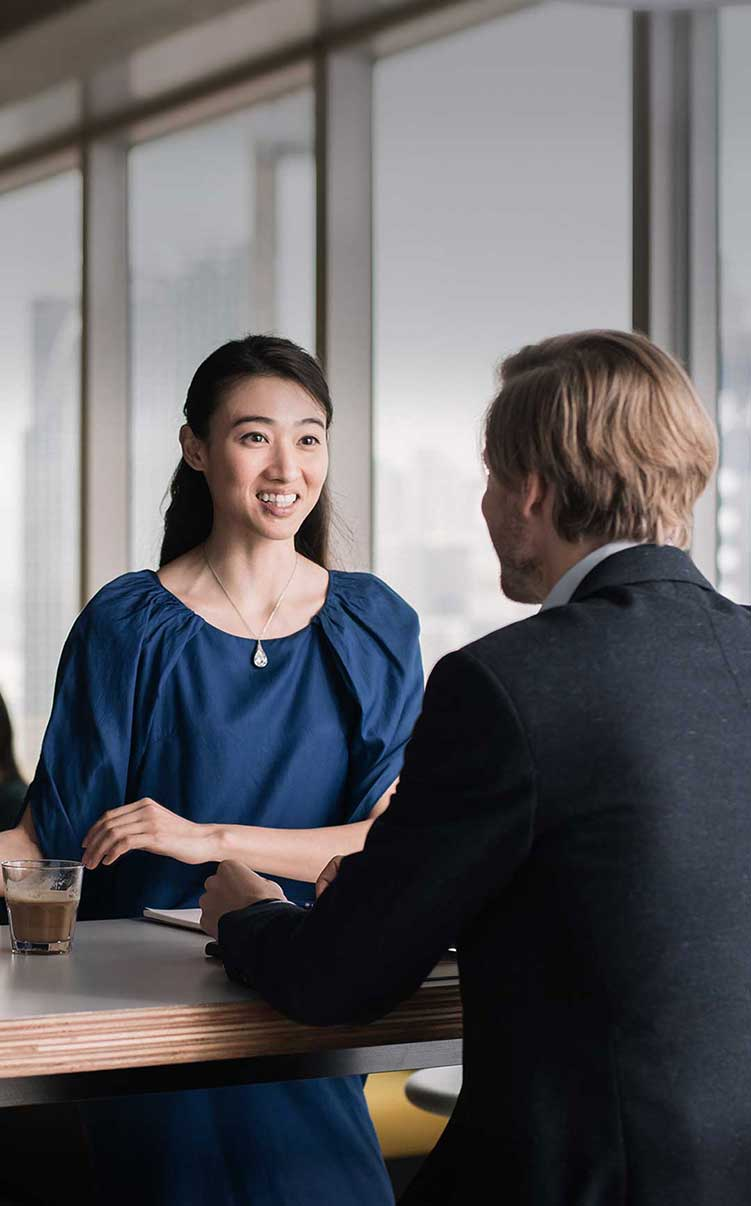
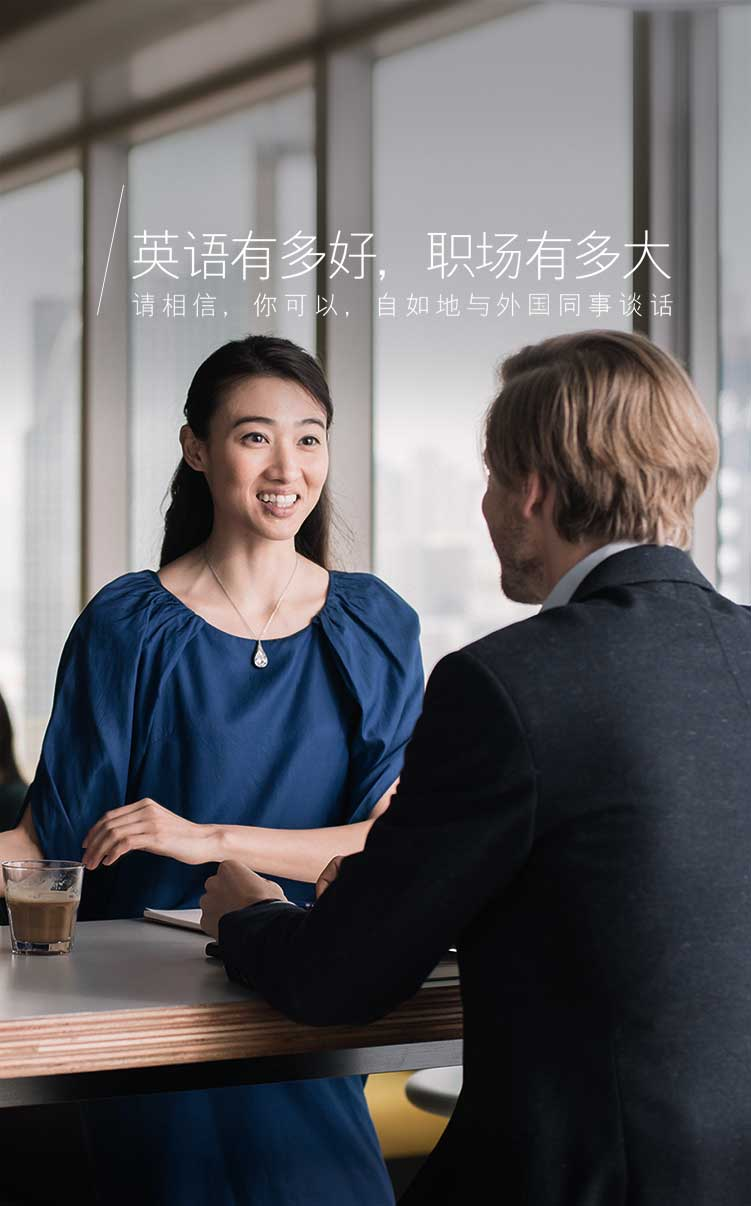
fix: change slide-4 image

diff --git a/app/main.scss b/app/main.scss
@@ -202,6 +202,7 @@ body {
   .title {
     margin: 3rem 0 3rem 1.5rem;
     color: #fff;
+    display: none;
 
     h1 {
       font-size: 0.6rem;
@@ -328,26 +329,6 @@ body {
       }
     }
   }
-}
-.slide-1 .title h1:before,
-.slide-4 .title h1:before {
[1 lines of base64/hex data omitted]
-  content: '';
-  background-size: 0.3rem 1.4rem;
-  background-repeat: no-repeat;
-  width: 0.3rem;
-  height: 1.4rem;
-  display: inline-block;
-  position: absolute;
-  left: 0.5rem;
-  top: 3.2rem;
-}
-.slide-4 .title h1:before {
-  background-size: 0.4rem 2rem;
-  width: 0.4rem;
-  height: 2rem;
-  top: 2.28rem;
-  left: 1rem;
 }
 .icon {
   display: inline-block;
